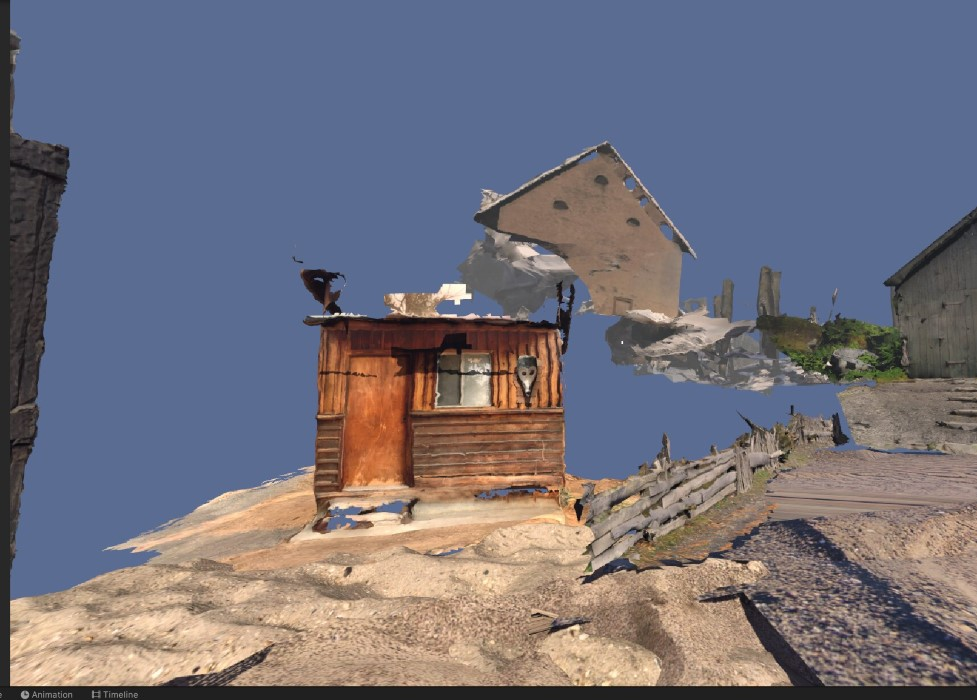
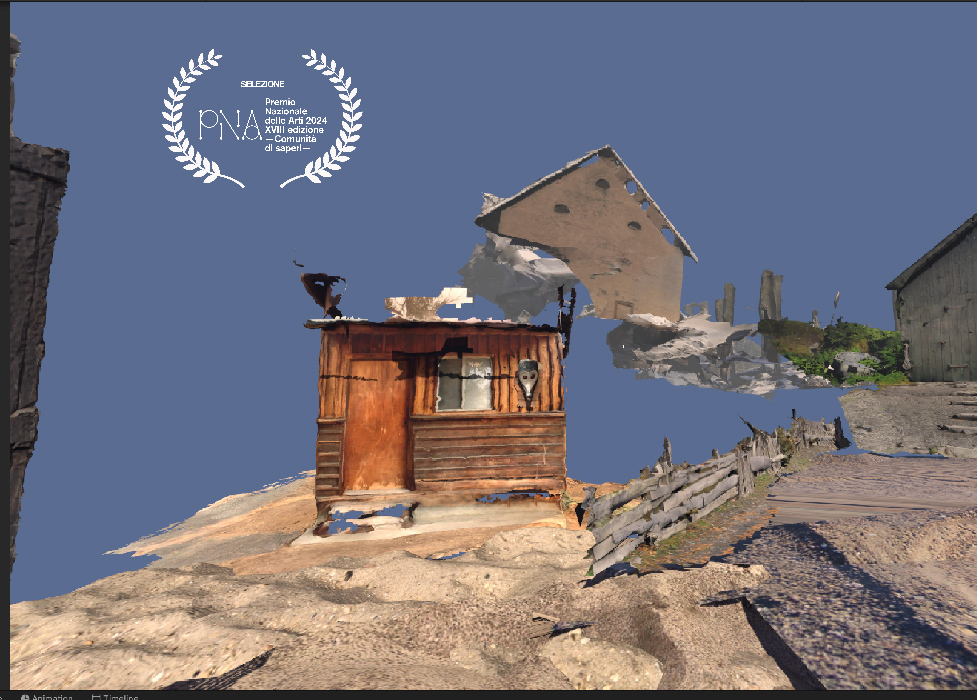
Laurel PNA

diff --git a/ISLAND.html b/ISLAND.html
@@ -82,10 +82,17 @@
             They are illusions, ghosts of an original, their purpose is unspecified, their history forgotten.
            <br>
            <br>
-           <br>
-           <br>
+           
            <br>
            <hr>
+           <br>
+           <img style="display: block; height: 8rem;" src="Mediapool/PNA_Laurel.jpg" alt="Laurel PNA2024">
+           <br>
+           <br>
+           
+           ISLAND OF LOST AND FOUND was selected for the <i>Premio Nazionale Delle Arti 2024</i>: a selection of the best works by students among
+           every art school in Italy. <br>Displayed in <i>Fondazione Brodbeck</i>, Catania (18.10 - 15.12.2024)
+
         </span>
 
     </div>
@@ -133,21 +140,27 @@
 
 
 
- <div id="scrollOM">
-    <div class="scrollSection">
+<div id="scrollOM">
+  <div class="scrollSection">
 
-        <span style="position: absolute; top: 50%; font-size: 2.2rem; left: 1rem; color: white;">&lt; </span>
-        <span style="position: absolute; top: 50%; font-size: 2.2rem; right: 1rem; color: white;">&gt; </span>
+    <span style="position: absolute; top: 50%; font-size: 2.2rem; left: 1rem; color: white;">&lt; </span>
+    <span style="position: absolute; top: 50%; font-size: 2.2rem; right: 1rem; color: white;">&gt; </span>
     
-      <div id="scrolldiv" class="scrollCont">
+    <div id="scrolldiv" class="scrollCont">
 
-        <img style="display: inline-block; padding-right: 2rem;" height="350px" src="Mediapool/Full_images/Island_frame1.jpg" alt="Island of Lost and Found frame_1">
-    <img style="display: inline-block; " height="350px" src="Mediapool/Full_images/Island_frame2.jpg" alt="Island of Lost and Found frame_2">
-    <img style="display: inline-block; padding-right: 2rem;" height="350px" src="Mediapool/Full_images/Island_frame3.jpg" alt="Island of Lost and Found frame_3">
-    <img style="display: inline-block; " height="350px" src="Mediapool/Full_images/Island_frame5.jpg" alt="Island of Lost and Found frame_4">
+     <img style="display: inline-block; padding-right: 2rem;" height="350px" src="Mediapool/Full_images/Island_frame1.jpg" alt="Island of Lost and Found frame_1">
+     <img style="display: inline-block; " height="350px" src="Mediapool/Full_images/Island_frame2.jpg" alt="Island of Lost and Found frame_2">
+     <img style="display: inline-block; padding-right: 2rem;" height="350px" src="Mediapool/Full_images/Island_frame3.jpg" alt="Island of Lost and Found frame_3">
+     <img style="display: inline-block; " height="350px" src="Mediapool/Full_images/Island_frame5.jpg" alt="Island of Lost and Found frame_4">
      
       
     </div>
+    <div id="scrolldiv" class="scrollCont">
+
+        <a href="Mediapool/Full_images/PNA Locandina.jpg"><img style="display: inline-block; padding-right: 2rem;" height="350px" src="Mediapool/Full_images/PNA Locandina.jpg" alt="PNA2024_1"></a>
+        <img style="display: inline-block; padding-right: 2rem;" height="350px" src="Mediapool/Full_images/PNA Group.jpg" alt="PNA2024_2">
+         
+       </div>
   </div>
 </div>
 
